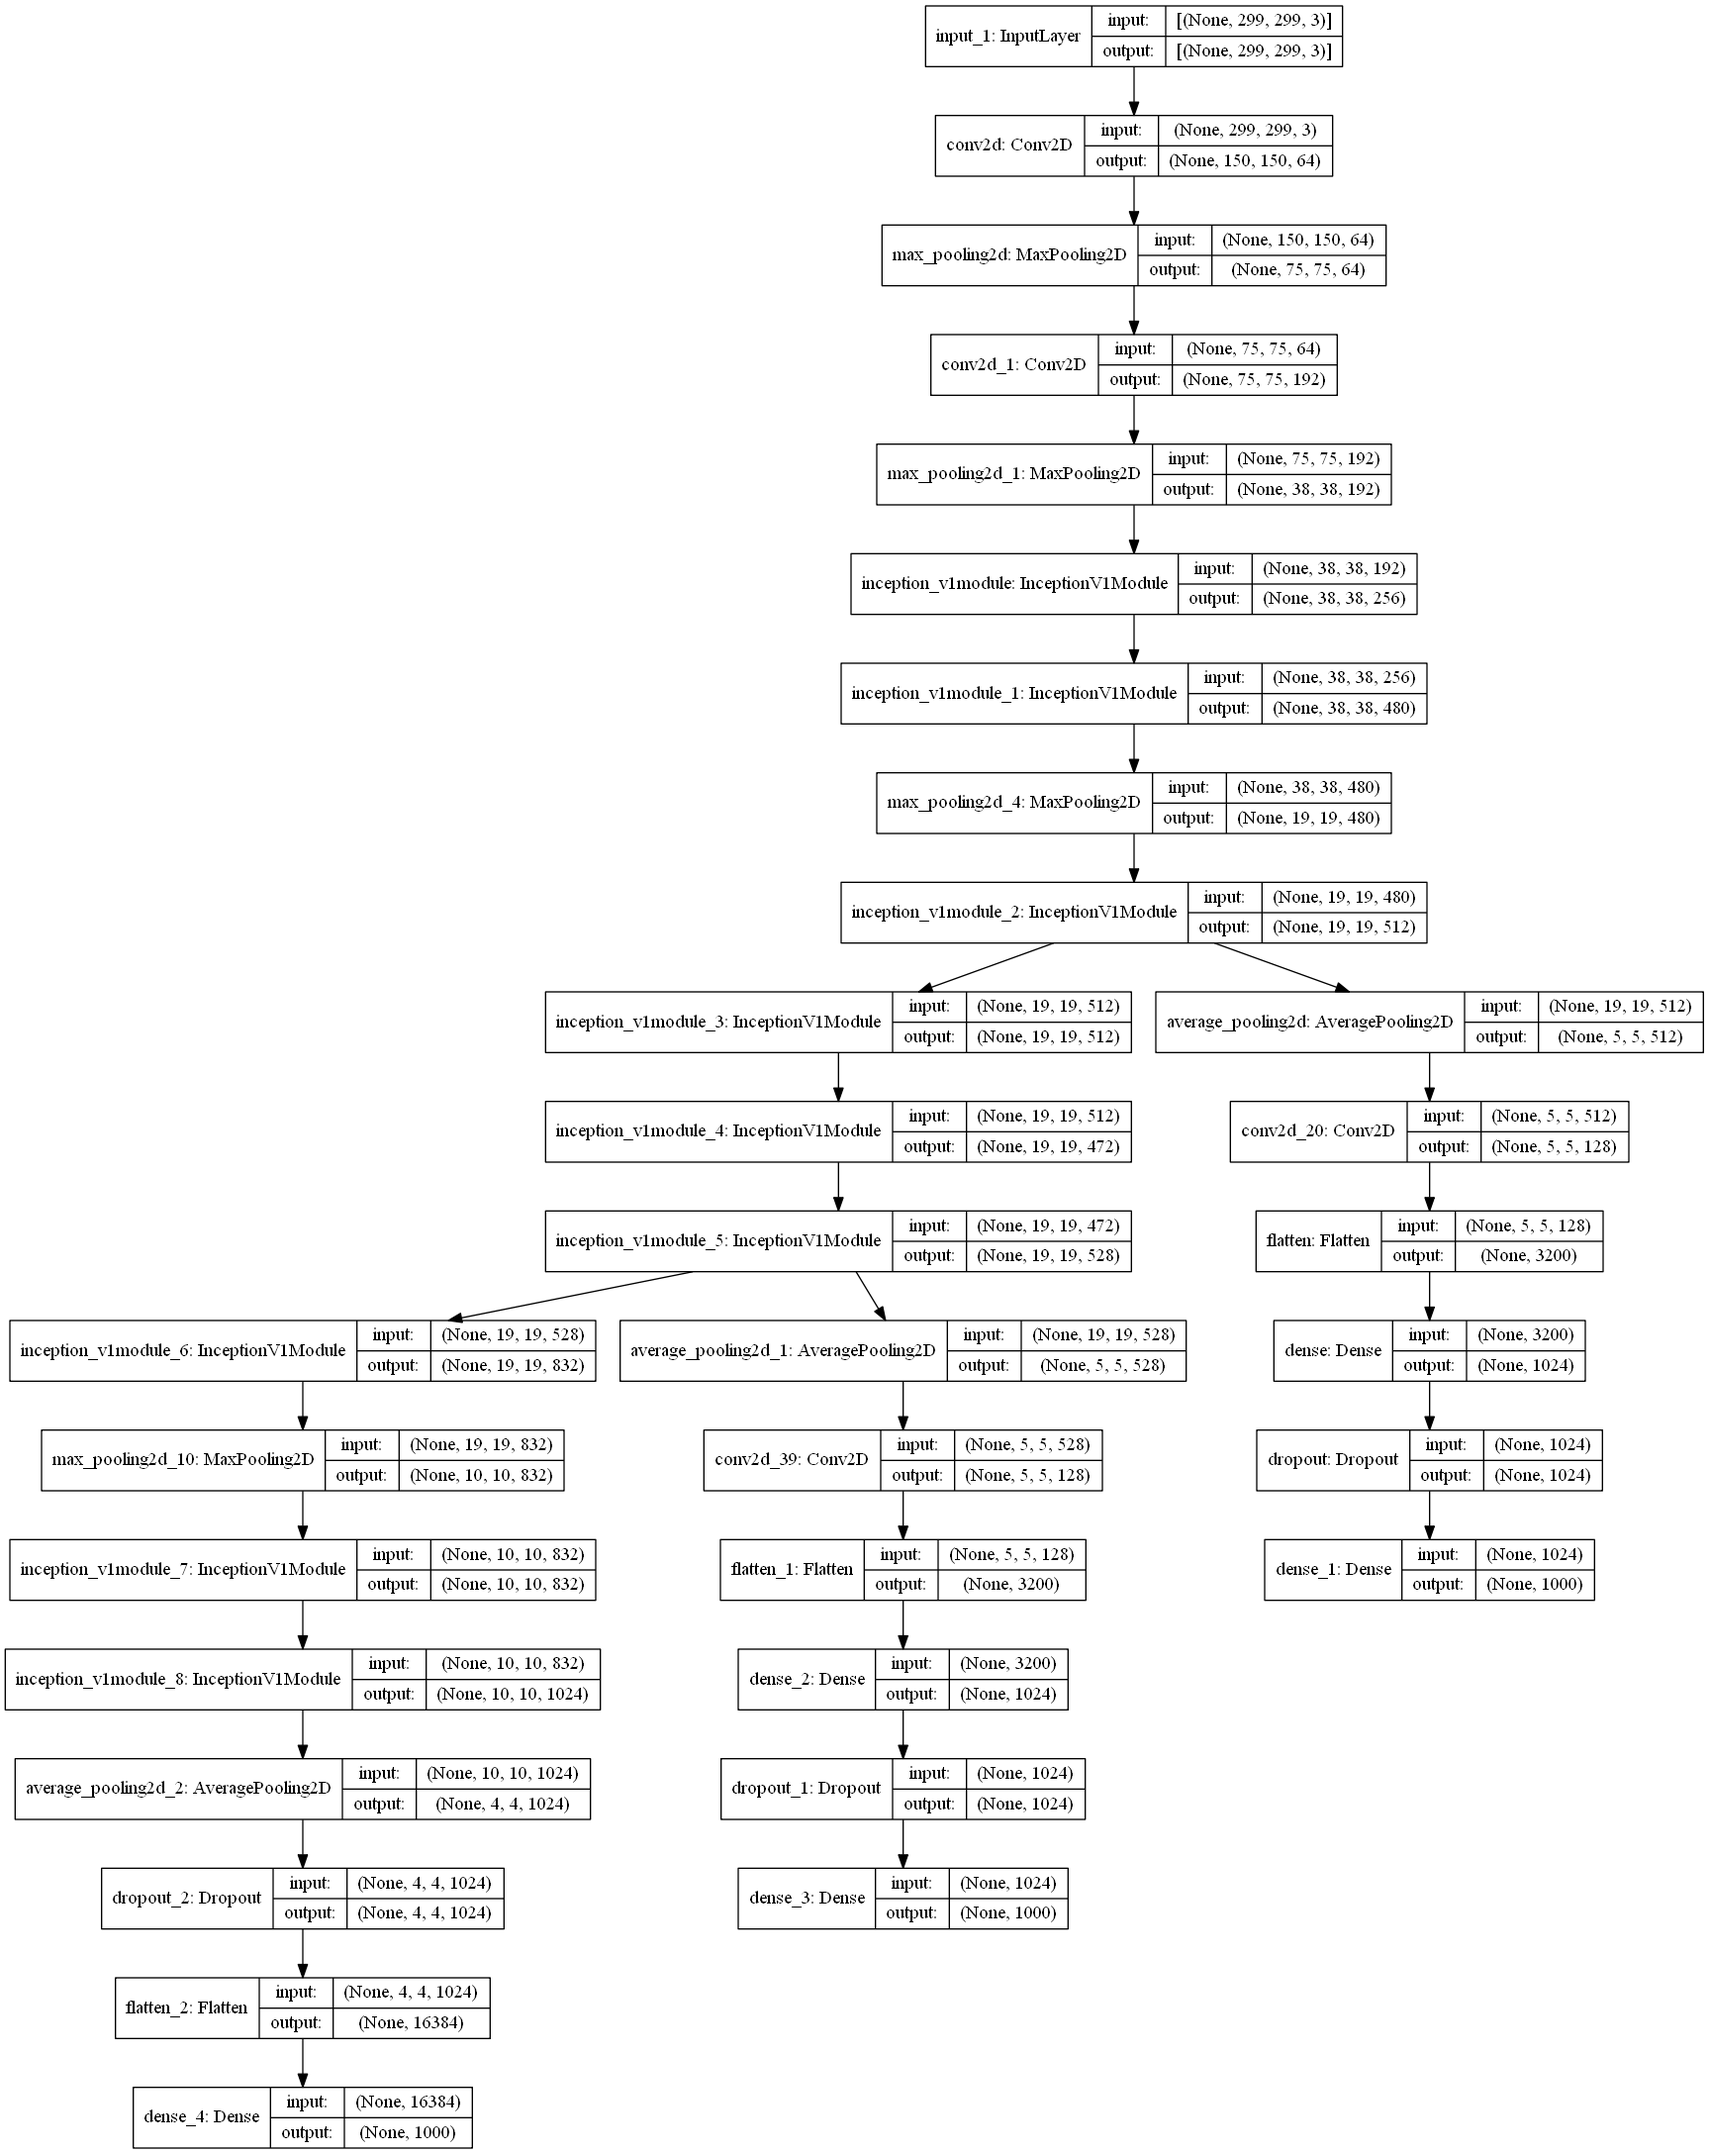
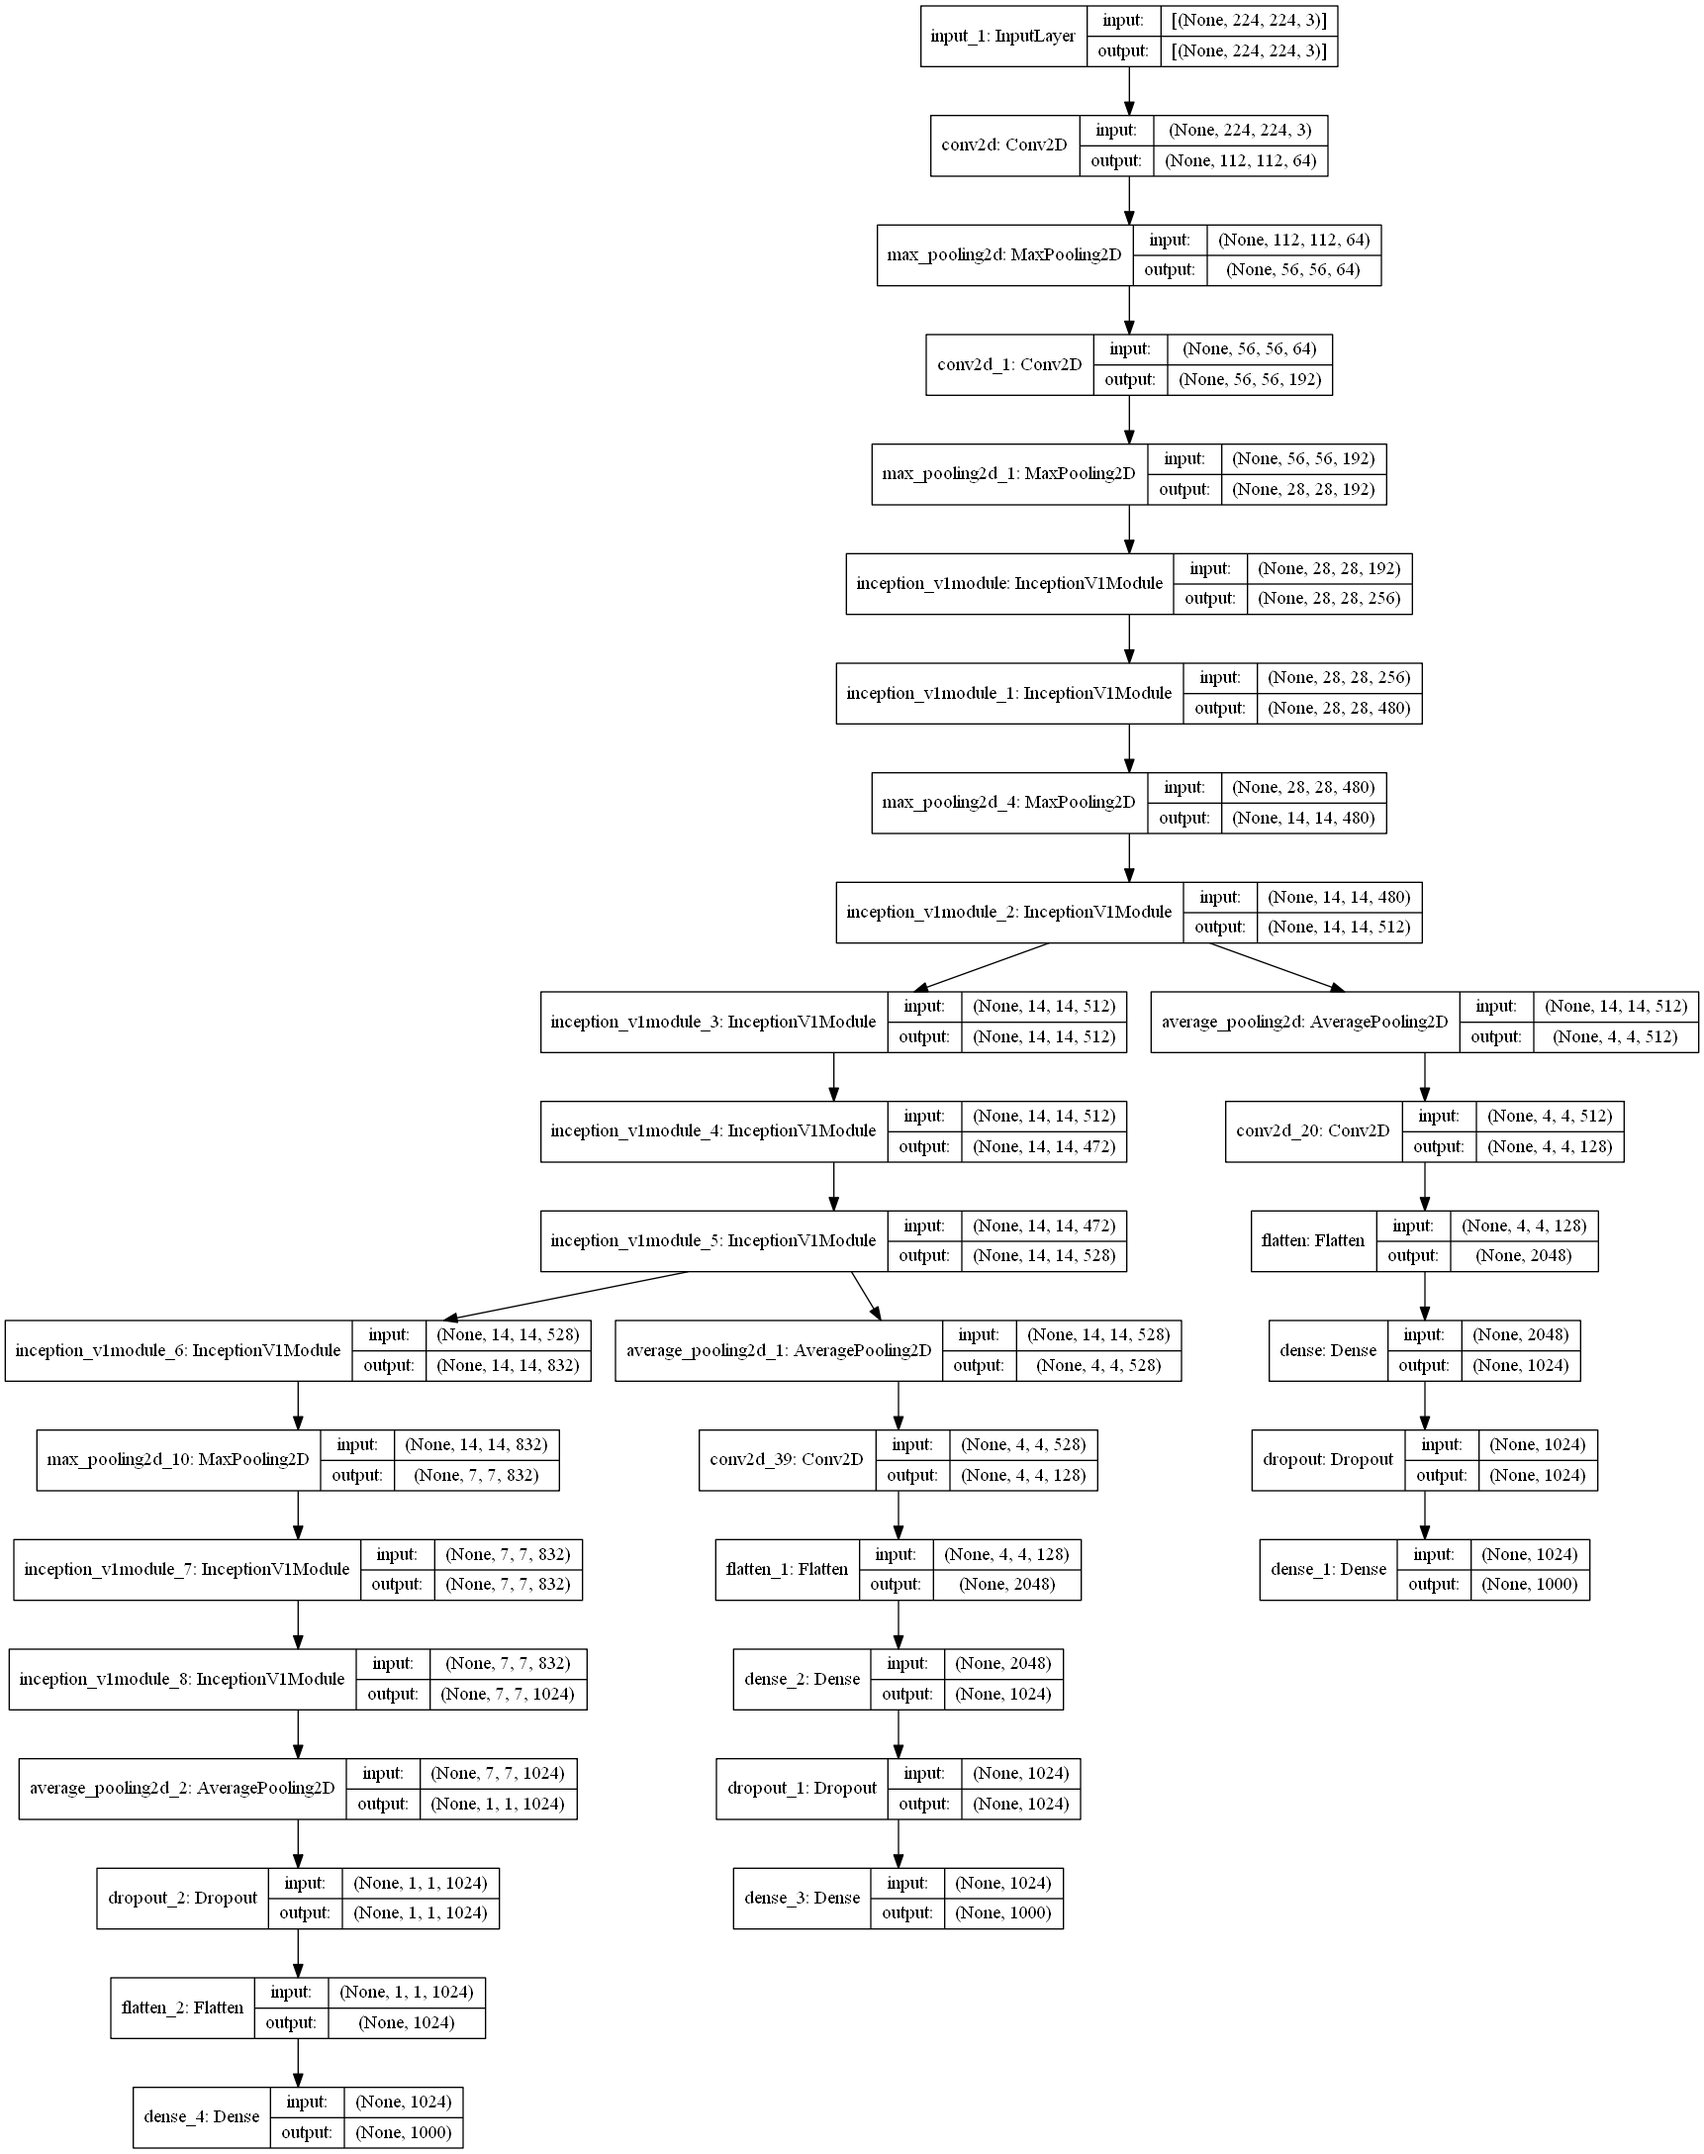
docs. 图

diff --git a/train_main.py b/train_main.py
@@ -11,7 +11,7 @@ physical_devices = tf.config.list_physical_devices('GPU')
 tf.config.experimental.set_memory_growth(physical_devices[0], enable=True)
 
 if __name__ == "__main__":
-    image_shape = (299,299,3)
+    image_shape = (224,224,3)
     num_classes = 1000
 
     mydata = Dataset()
